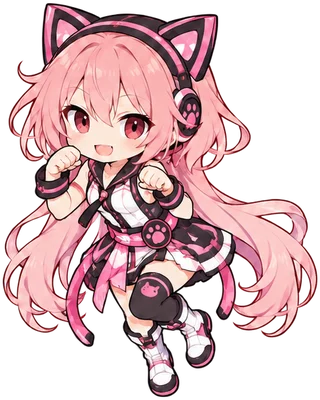
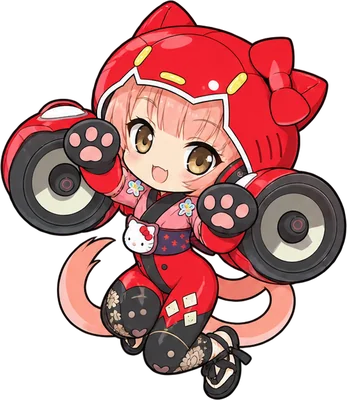
fix: redraw six voices to match their official look
Six of the first 19 characters did not match their official designs:
Nekomura Iroha, Aoki Lapis, Kaai Yuki, MAYU, v flower and KAFU. Redraw
them with the official art attached, and give Iroha and Lapis card
colors and Yuki a red that matches her pinafore.

🤖 Generated with Claude Code

diff --git a/CLAUDE.md b/CLAUDE.md
@@ -143,7 +143,7 @@ pnpm dev
     - 今回は各キャラの公式の絵を4枚ずつ ChatGPT に添えて描かせ、背景も最初から透過で出させた。添えた絵が違う姿のときは公式サイトから取る（ずんだもんは VocaDB の絵が妖精の姿だったので、zunko.jp の立ち絵を添えた）
     - 切り分けは、透過のシートの塊を重心のあるマスで振り分ける。隣のキャラとくっついていた花隈千冬と裏命だけは手で分け、ブーツの下に隠れていた裏命の頭のてっぺんを円で描き足した
     - 2026-10-09 の取り込みで20曲以上の歌声が15人増えた（유니・시유・りむる・東北ずん子・四国めたん・星尘など）。まだ絵は無い
-    - 最初の19キャラが公式の設定に沿っているかは、まだ確かめていない。本人から猫村いろはが全然違うと言われている
+    - 最初の19キャラを公式の絵と見比べ、違っていた6人（猫村いろは・蒼姫ラピス・歌愛ユキ・MAYU・v flower・可不）を公式の絵を添えて描き直した（2026-10-09）。本人に猫村いろはが全然違うと言われたため。猫村いろはの帯留めのハローキティは公式の絵にあるもの
   - 札の色は `src/lib/voice-color.ts` に名前で書く。絵を足したら色も足す（無いと札が既定の青緑になる）
   - ポーズはキャラの性格に合わせて1人ずつ指定する。「同じ構図で」と頼んだら全員が同じポーズ（片手を広げてウインク）になり、本人に「同じポーズすぎ」と言われて描き直した。持ち物（ネギ・マグロなど）で寄せるのは本人が反対。ポーズと表情で寄せる
   - 背景は ChatGPT に透過で出させる。白の地を手元で抜くと、髪のすき間のような線に囲まれた白が残る。最初は白の地で作って手元で抜き、本人に「透過が甘い」と言われて出し直した
